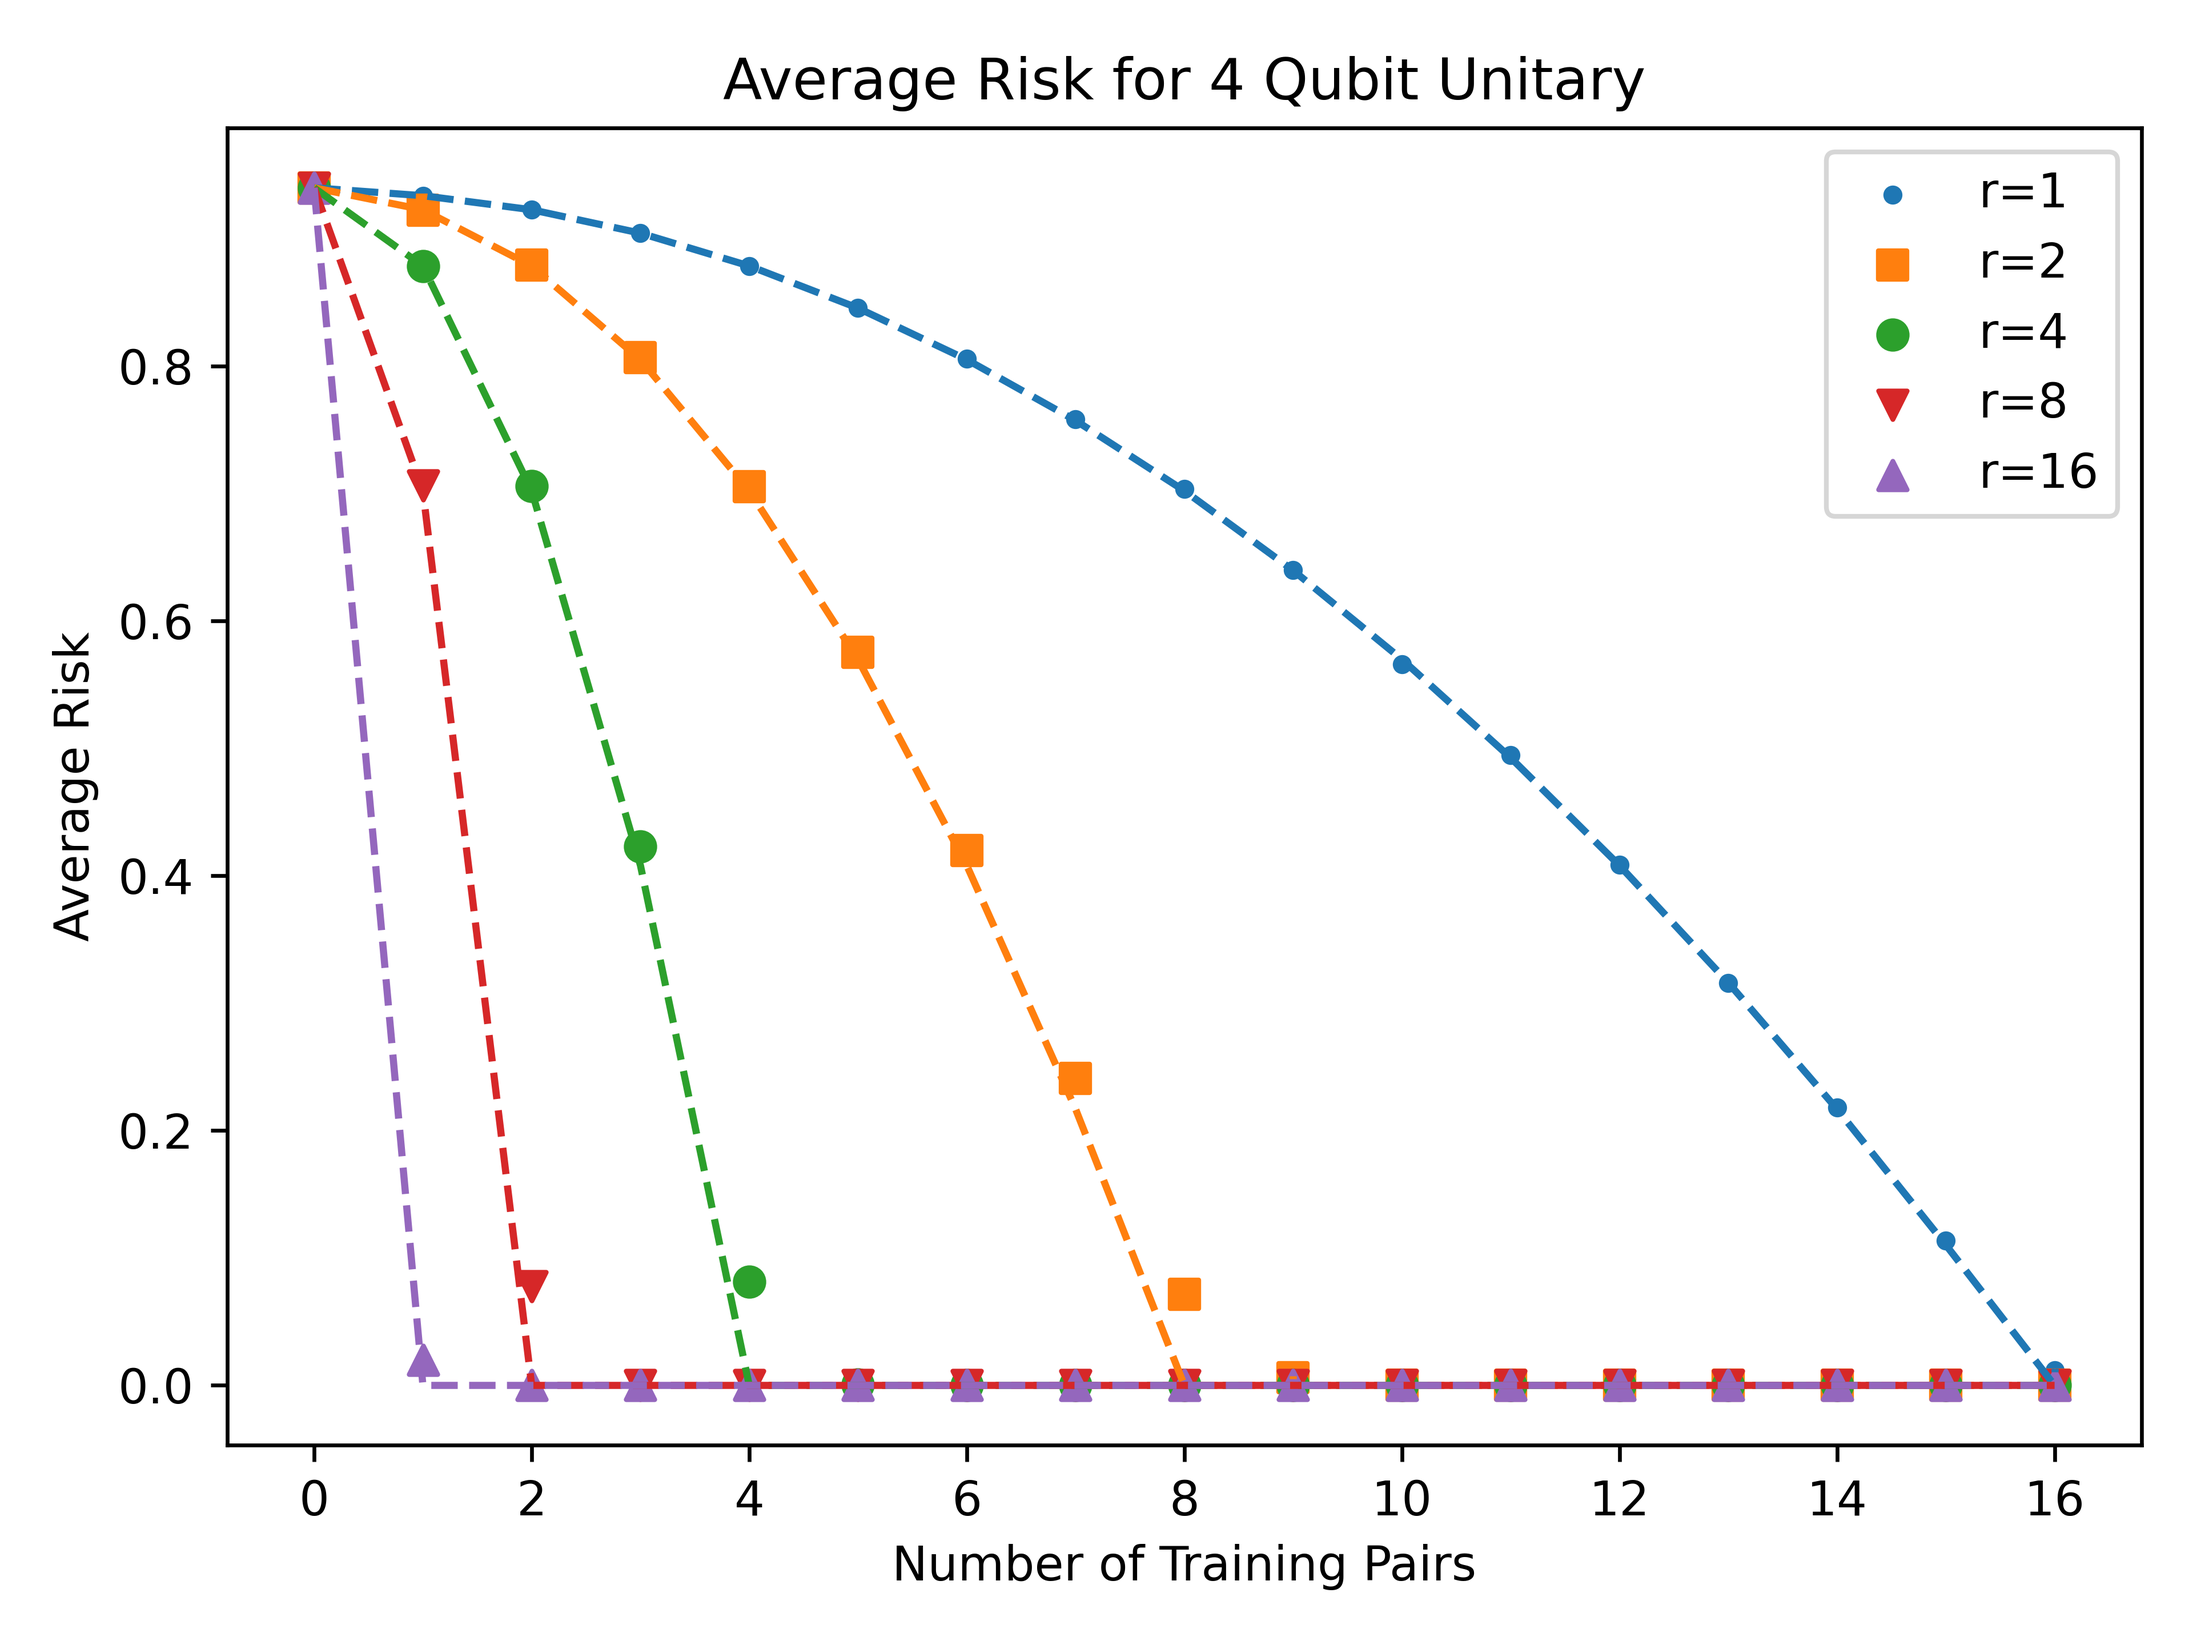
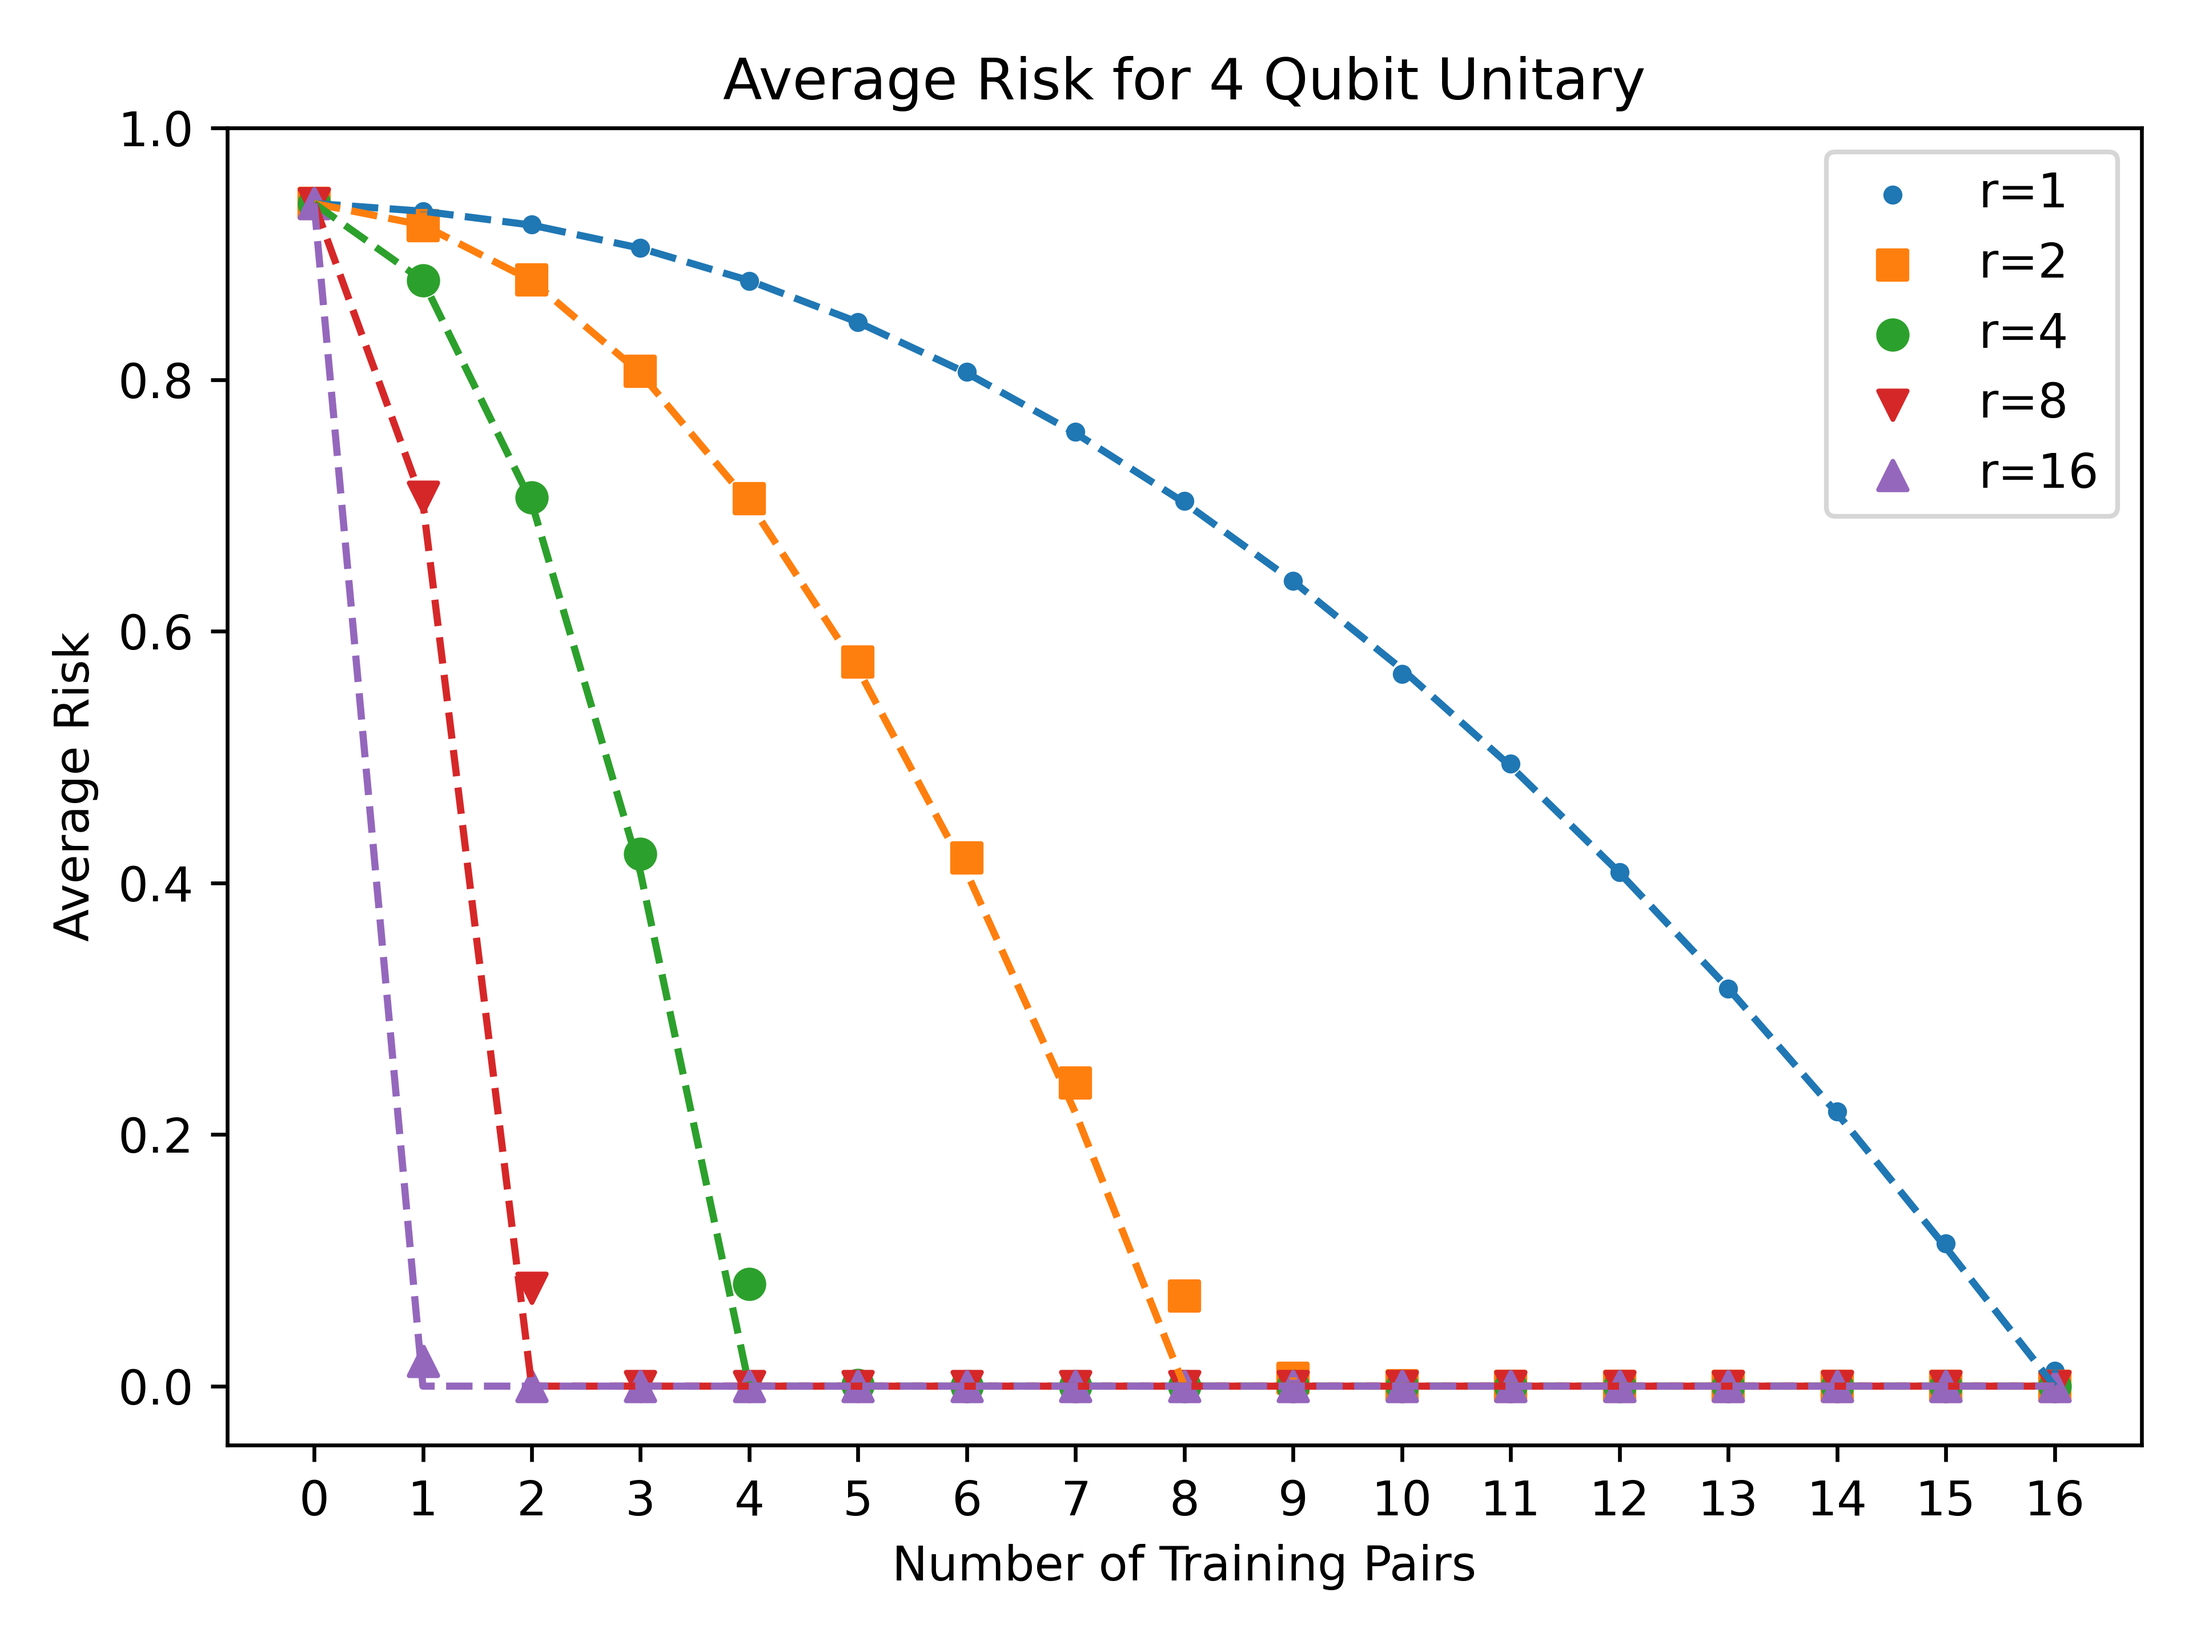
experiment setup + plot cleanup

diff --git a/generate_experiments.py b/generate_experiments.py
@@ -285,6 +285,7 @@ def process_execution(args):
                 else:
                     print(f"\nfinal_std={final_std} so we skip\n")
             else:
+
                 X, std, mean = uniform_random_data_mean_pair(schmidt_rank, std, num_points, x_qbits)
                 X = torch.tensor(np.array(X), dtype=torch.complex128)
                 X = X.reshape((X.shape[0], int(X.shape[1] / U.shape[0]), U.shape[0])).permute(0, 2, 1)
@@ -590,12 +591,12 @@ if __name__ == '__main__':
     # gradient_3D_plot(U=U, func=root_func(100), name='gradient_map_pow_100')
     scheduler_factor = 0.8
     scheduler_patience = 10
-    num_processes = 1
+    num_processes = 8
     lr = 0.1
     run_type = 'new'
     exp(4, 60, 1000, lr, 10, 100, 'CudaPennylane', 'cpu', None, True, 'Adam',
         scheduler_factor=scheduler_factor, scheduler_patience=scheduler_patience, std=True,
-        writer_path='./experimental_results/test/', num_processes=num_processes, run_type=run_type,
+        writer_path='./experimental_results/small_std_results/', num_processes=num_processes, run_type=run_type,
         small_std=True
         )
     # exp(4, 45, 1000, 0.1, 1, 1, 'CudaPennylane', 'cpu', None, True, 'Adam', std=True,

diff --git a/visualise_small_std.py b/visualise_small_std.py
@@ -37,16 +37,16 @@ def plot_small_std_results():
     x.sort()
     y = [np.array(results[el]).mean() for el in x]
     plt.scatter(x, y, label='risk')
-    for r in [4, 5, 6, 7]:
-        lower_bound = calc_lower_bound(r, 2, 2**4)
+    for r in [4]:
+        lower_bound = calc_lower_bound(r, 4, 2**4)
         y = [lower_bound]*len(x)
-        plt.plot(x, y, marker='.', c='tab:gray', linestyle='dashed', label=f"r={r} bound (2 points)")
+        plt.plot(x, y, marker='.', c='tab:gray', linestyle='dashed', label=f"r={r} bound (4 points)")
     plt.legend()
     plt.xlabel('standard deviation')
     plt.ylabel('risk')
     plt.title('Risk depending on the STD (Schmidt Rank 4)')
     plt.tight_layout()
-    plt.savefig('./plots/small_std/4_qubits_4_schmidt_rank_exp.png')
+    plt.savefig('./plots/small_std/4_qubits_4_schmidt_rank_exp_4_points.png')
 
 
 def main():

diff --git a/plot_fig3.py b/plot_fig3.py
@@ -55,6 +55,8 @@ def plot_results():
         plt.plot(x, y, color=color, linestyle='dashed')
     plt.xlabel('Number of Training Pairs')
     plt.ylabel('Average Risk')
+    plt.xticks(range(0, 17))
+    plt.ylim(top=1)
     plt.legend()
     plt.title(f'Average Risk for {num_qbits} Qubit Unitary')
     plt.tight_layout()
